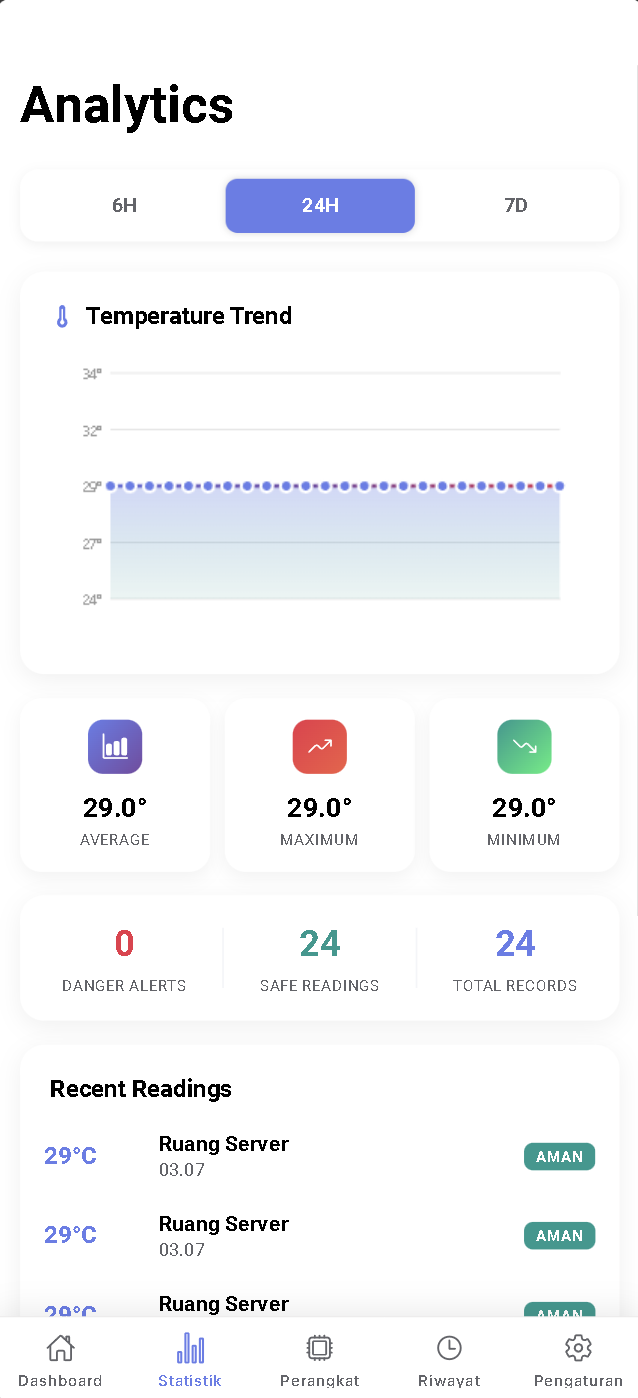
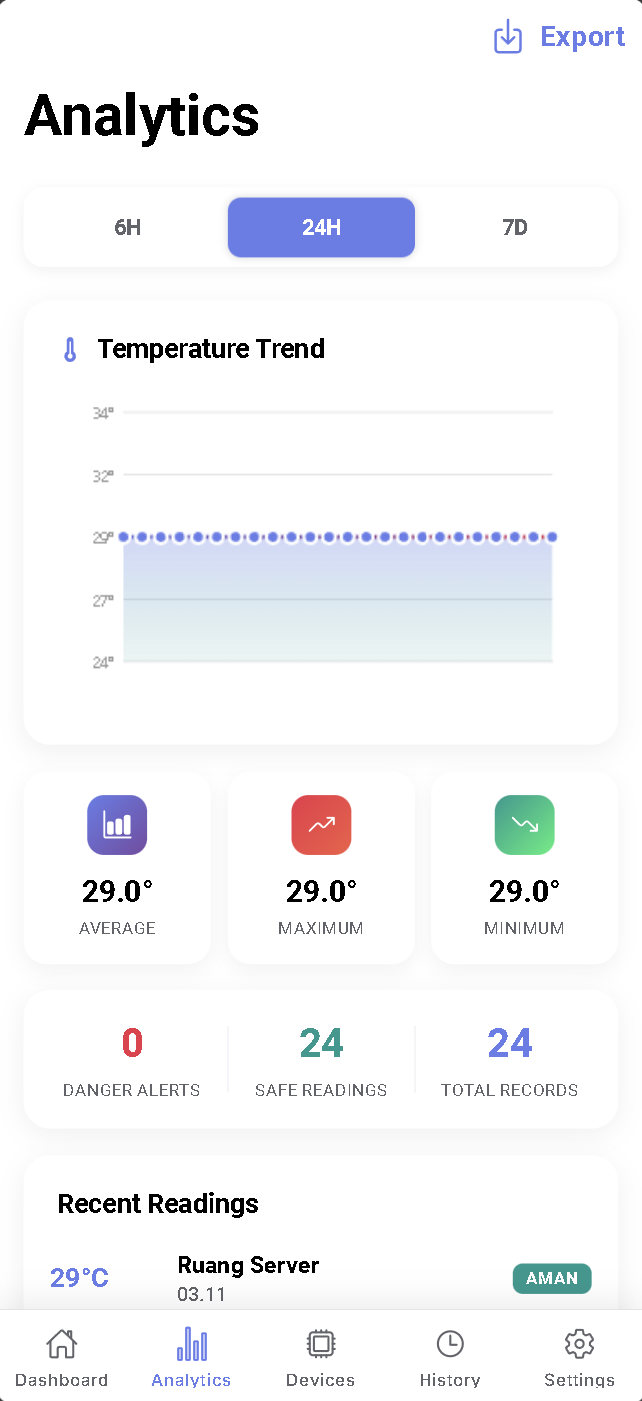
update README & src/ss

diff --git a/README.md b/README.md
@@ -16,7 +16,11 @@ A modern, high-performance mobile dashboard application for monitoring IoT Fire 
 </p>
 <p align="center">
   <img src="src/assets/ss/ss-perangkat.png" width="30%" alt="Devices - Sensor Status" style="margin: 5px;" />
+  <img src="src/assets/ss/ss-riwayat-detail.png" width="30%" alt="History Detail" style="margin: 5px;" />
   <img src="src/assets/ss/ss-pengaturan.png" width="30%" alt="Settings - Configuration" style="margin: 5px;" />
+</p>
+<p align="center">
+  <img src="src/assets/ss/ss-popup-modal.png" width="30%" alt="Export Data - Modal" style="margin: 5px;" />
 </p>
 
 ## 📱 Features
@@ -26,7 +30,10 @@ A modern, high-performance mobile dashboard application for monitoring IoT Fire 
   - **Push Notifications**: Receive instant notifications when a sensor detects danger.
   - **Alert Sounds**: Plays a distinct alarm sound during danger states (Respects browser autoplay policies).
 - **History Logs**: View complete sensor history logs with sorting and filtering.
-- **Analytics**: Visual representation of temperature trends and device performance.
+- **Analytics**: 
+  - Visual representation of temperature trends and device performance.
+  - **Export Data Features**: Generate professional reports in **PDF, Excel (.xlsx), and CSV** formats.
+  - **Smart Actions**: Copy filtered data directly to system clipboard for quick sharing.
 - **Device Management**: List of active sensors and their last known locations.
 - **Customizable Settings**:
   - **Dark/Light Mode**: Full theme support including system preference detection.
